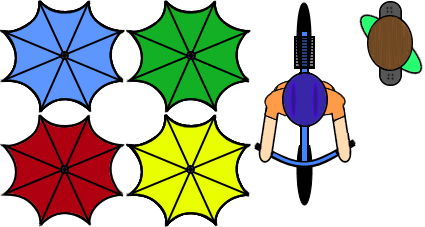
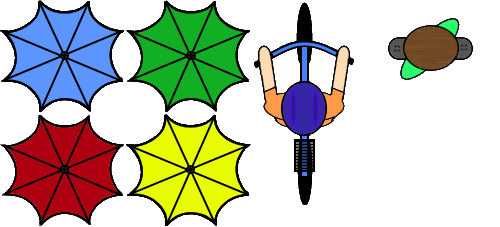
Full implementasjon av pedestrians. Måtte rotere og flytte litt på ting i walkers.png, men bildene i seg selv skal være det samme.

diff --git a/src/car-game/main/java/uib/teamdank/cargame/gui/GameScreen.java b/src/car-game/main/java/uib/teamdank/cargame/gui/GameScreen.java
@@ -1,5 +1,7 @@
 package uib.teamdank.cargame.gui;
 
+import java.util.Random;
+
 import com.badlogic.gdx.Gdx;
 import com.badlogic.gdx.Input.Keys;
 import com.badlogic.gdx.audio.Sound;
@@ -7,10 +9,12 @@ import com.badlogic.gdx.graphics.OrthographicCamera;
 import com.badlogic.gdx.math.Vector2;
 
 import uib.teamdank.cargame.CarGame;
+import uib.teamdank.cargame.Pedestrian;
 import uib.teamdank.cargame.Player;
 import uib.teamdank.cargame.RoadEntity;
 import uib.teamdank.cargame.util.RoadEntityGenerator;
 import uib.teamdank.cargame.util.ScrollingSpawner;
+import uib.teamdank.cargame.util.pedestrianGenerator;
 import uib.teamdank.common.Game;
 import uib.teamdank.common.gui.Layer;
 import uib.teamdank.common.util.AssetManager;
@@ -36,14 +40,16 @@ public class GameScreen extends uib.teamdank.common.gui.GameScreen {
 
 	private final BackgroundLayer backgroundLayer;
 	private final Layer roadEntityLayer;
+	private final Layer pedestrianLayer;
 	private final Layer carLayer;
 	private final CarHud hud;
 
 	private final Sound carSound;
 	private float carVolume = 0.5f;
-	
+
 	private final Player player;
-	
+
+	private final ScrollingSpawner pedestrianSpawner;
 	private final ScrollingSpawner roadEntitySpawner;
 
 	public GameScreen(Game game) {
@@ -52,6 +58,7 @@ public class GameScreen extends uib.teamdank.common.gui.GameScreen {
 		this.assets = new AssetManager();
 		TextureAtlas carTextures = assets.getAtlas("Images/car_sheet.json");
 		TextureAtlas roadEntityTextures = assets.getAtlas("Images/road_entity_sheet.json");
+		TextureAtlas pedestrianTextures = assets.getAtlas("Images/Game/walkers.json");
 
 		// Cameras
 		this.playerCamera = new OrthographicCamera(Gdx.graphics.getWidth(), Gdx.graphics.getHeight());
@@ -75,21 +82,28 @@ public class GameScreen extends uib.teamdank.common.gui.GameScreen {
 		// Layers
 		backgroundLayer = new BackgroundLayer(assets, playerCamera, screenCamera, player);
 		roadEntityLayer = new Layer(true);
+		pedestrianLayer = new Layer(true);
 		carLayer = new Layer(true);
 		addLayer(backgroundLayer);
 		addLayer(roadEntityLayer);
+		addLayer(pedestrianLayer);
 		addLayer(carLayer);
 		carLayer.addGameObject(player);
 
 		// Road entity spawner initialization
-		this.roadEntitySpawner = new ScrollingSpawner(roadEntityLayer,
-														playerCamera,
-														new RoadEntityGenerator(roadEntityTextures));
-		roadEntitySpawner.setHorizontalPositionRange(backgroundLayer.getRoadLeftX(),
-														backgroundLayer.getRoadRightX());
+		this.roadEntitySpawner = new ScrollingSpawner(roadEntityLayer, playerCamera,
+				new RoadEntityGenerator(roadEntityTextures));
+		roadEntitySpawner.setHorizontalPositionRange(backgroundLayer.getRoadLeftX(), backgroundLayer.getRoadRightX());
 		roadEntitySpawner.setChanceOfSpawn(.01f);
 		roadEntitySpawner.setExtraVerticalSpaceBetweenSpawns(50);
-		
+
+		// pedestrian spawner initialization
+		this.pedestrianSpawner = new ScrollingSpawner(pedestrianLayer, playerCamera,
+				new pedestrianGenerator(pedestrianTextures));
+		pedestrianSpawner.setHorizontalPositionRange(backgroundLayer.getRoadLeftX(), backgroundLayer.getRoadRightX());
+		pedestrianSpawner.setChanceOfSpawn(.01f);
+		pedestrianSpawner.setExtraVerticalSpaceBetweenSpawns(50);
+
 		// HUD
 		this.hud = new CarHud();
 
@@ -160,7 +174,15 @@ public class GameScreen extends uib.teamdank.common.gui.GameScreen {
 
 		// Updates game objects
 		super.update(delta); // Movement and deletion
+		// update road entity layer
 		roadEntityLayer.forEachGameObject(gameObject -> {
+			if (gameObject instanceof RoadEntity
+					&& player.contains(gameObject.getPosisiton().x, gameObject.getPosisiton().y)) {
+				((RoadEntity) gameObject).drivenOverBy(player);
+			}
+		});
+		// update pedestrian layer
+		pedestrianLayer.forEachGameObject(gameObject -> {
 			if (gameObject instanceof RoadEntity
 					&& player.contains(gameObject.getPosisiton().x, gameObject.getPosisiton().y)) {
 				((RoadEntity) gameObject).drivenOverBy(player);
@@ -186,14 +208,28 @@ public class GameScreen extends uib.teamdank.common.gui.GameScreen {
 		// Spawn new road entities
 		roadEntitySpawner.update(delta);
 		roadEntitySpawner.setHorizontalPositionRange(backgroundLayer.getRoadLeftX(), backgroundLayer.getRoadRightX());
-		
+
+		// Spawn new pedestrians
+		pedestrianSpawner.update(delta);
+		pedestrianSpawner.setHorizontalPositionRange(backgroundLayer.getRoadLeftX(), backgroundLayer.getRoadRightX());
+
+		// Update pedestrians
+		for (int i = 0; i < pedestrianLayer.getSize(); i++) {
+			try {
+				Pedestrian p = (Pedestrian) pedestrianLayer.getAllObjects().get(i);
+				p.accelerate();
+			} catch (ClassCastException e) {
+
+			}
+		}
+
 		// Check for game over
 		if (player.isOutOfFuel() && player.getVelocity().y == 0) {
 			getGame().setScreen(new EndingScreen((CarGame) getGame()));
 		}
 
 	}
-	
+
 	private void updateHUD() {
 		hud.setCurrentFuel(player.getHealth(), player.getMaxHealth());
 		hud.setScore(player.getScore().getScore());

diff --git a/src/car-game/main/java/uib/teamdank/cargame/Pedestrian.java b/src/car-game/main/java/uib/teamdank/cargame/Pedestrian.java
@@ -1,26 +1,85 @@
 package uib.teamdank.cargame;
 
-import uib.teamdank.common.Actor;
+import com.badlogic.gdx.graphics.g2d.TextureRegion;
+import com.badlogic.gdx.math.Vector2;
 
+import uib.teamdank.common.Actor;
 
 /**
  * A pedestrian in the road. Has positive effects if driven over by the
  * {@link Player}.
  */
-public class Pedestrian extends Actor {
-	private long score;
-	private long speed;
-	
-	public Pedestrian (long sp,long sc){
-    this.score = sc;
-    this.speed=sp;
-    }
-    public long getScore(){
-	    return score;
+public class Pedestrian extends Actor implements RoadEntity {
+	private final long score;
+	private final float VERTICAL_TOP_SPEED;
+	private final float VERTICAL_ACCELERATION;
+	private final float HORIZONTAL_TOP_SPEED;
+	private final float HORIZONTAL_ACCELERATION;
 
-    }
-    public void driveOver(Player player){
-    	player.getScore().addToScore(this.score);
-    	this.markForRemoval();
-    }
+	public Pedestrian(long sp, long sc) {
+		super();
+		this.score = sc;
+		this.VERTICAL_ACCELERATION = 40f;
+		this.VERTICAL_TOP_SPEED = 400f;
+		this.HORIZONTAL_ACCELERATION = 20f;
+		this.HORIZONTAL_TOP_SPEED = 100f;
+	}
+
+	public Pedestrian(float vertSpd, float horiSpd, long sc, boolean goLeft, TextureRegion texture) {
+		super();
+		setTexture(texture);
+		setScale(.9f);
+		this.score = sc;
+		this.isMovable();
+		if (goLeft) {
+			this.VERTICAL_ACCELERATION = -50f;
+			this.VERTICAL_TOP_SPEED = -vertSpd;
+			this.HORIZONTAL_ACCELERATION = -20f;
+			this.HORIZONTAL_TOP_SPEED = -horiSpd;
+		} else {
+			this.VERTICAL_ACCELERATION = 50f;
+			this.VERTICAL_TOP_SPEED = vertSpd;
+			this.HORIZONTAL_ACCELERATION = 20f;
+			this.HORIZONTAL_TOP_SPEED = horiSpd;
+		}
+	}
+
+	public long getScore() {
+		return score;
+
+	}
+
+	@Override
+	public void drivenOverBy(Player player) {
+		player.getScore().addToScore(this.score);
+		this.markForRemoval();
+
+	}
+
+	public void accelerate() {
+		if (getVelocity().y != VERTICAL_TOP_SPEED) {
+			if (getVelocity().y > VERTICAL_TOP_SPEED) {
+				getVelocity().y = VERTICAL_TOP_SPEED;
+			} else {
+				getVelocity().y += VERTICAL_ACCELERATION;
+			}
+		}
+		if (HORIZONTAL_TOP_SPEED > 0) {
+			if (getVelocity().x != HORIZONTAL_TOP_SPEED) {
+				if (getVelocity().x > HORIZONTAL_TOP_SPEED) {
+					getVelocity().x = HORIZONTAL_TOP_SPEED;
+				} else {
+					getVelocity().x += HORIZONTAL_ACCELERATION;
+				}
+			}
+		} else {
+			if (getVelocity().x != HORIZONTAL_TOP_SPEED) {
+				if (getVelocity().x > HORIZONTAL_TOP_SPEED) {
+					getVelocity().x = HORIZONTAL_TOP_SPEED;
+				} else {
+					getVelocity().x -= HORIZONTAL_ACCELERATION;
+				}
+			}
+		}
+	}
 }

diff --git a/src/car-game/main/java/uib/teamdank/cargame/util/ScrollingSpawner.java b/src/car-game/main/java/uib/teamdank/cargame/util/ScrollingSpawner.java
@@ -50,6 +50,7 @@ public class ScrollingSpawner implements Generator<GameObject> {
 		return spawn;
 	}
 
+
 	private void deleteOldStructures() {
 		GameObject firstSpawn = spawns.get(0);
 		if (firstSpawn.isMarkedForRemoval()) {
